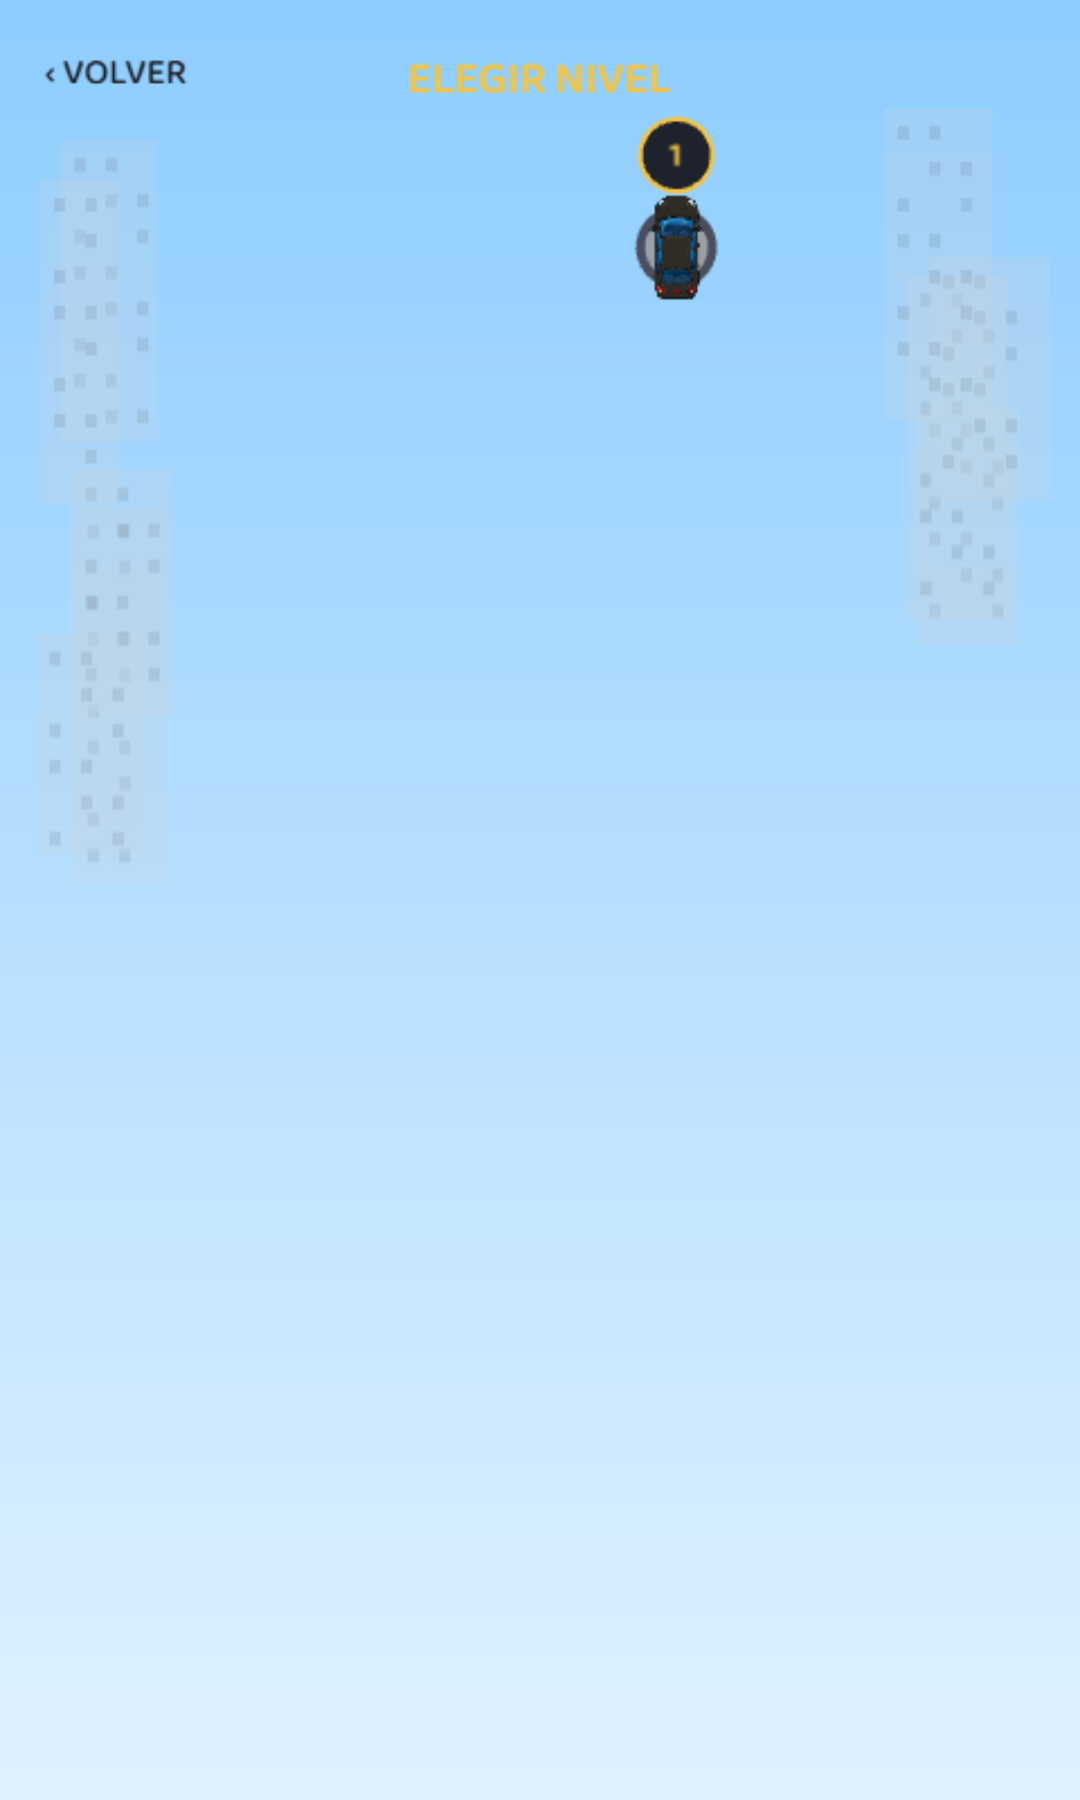
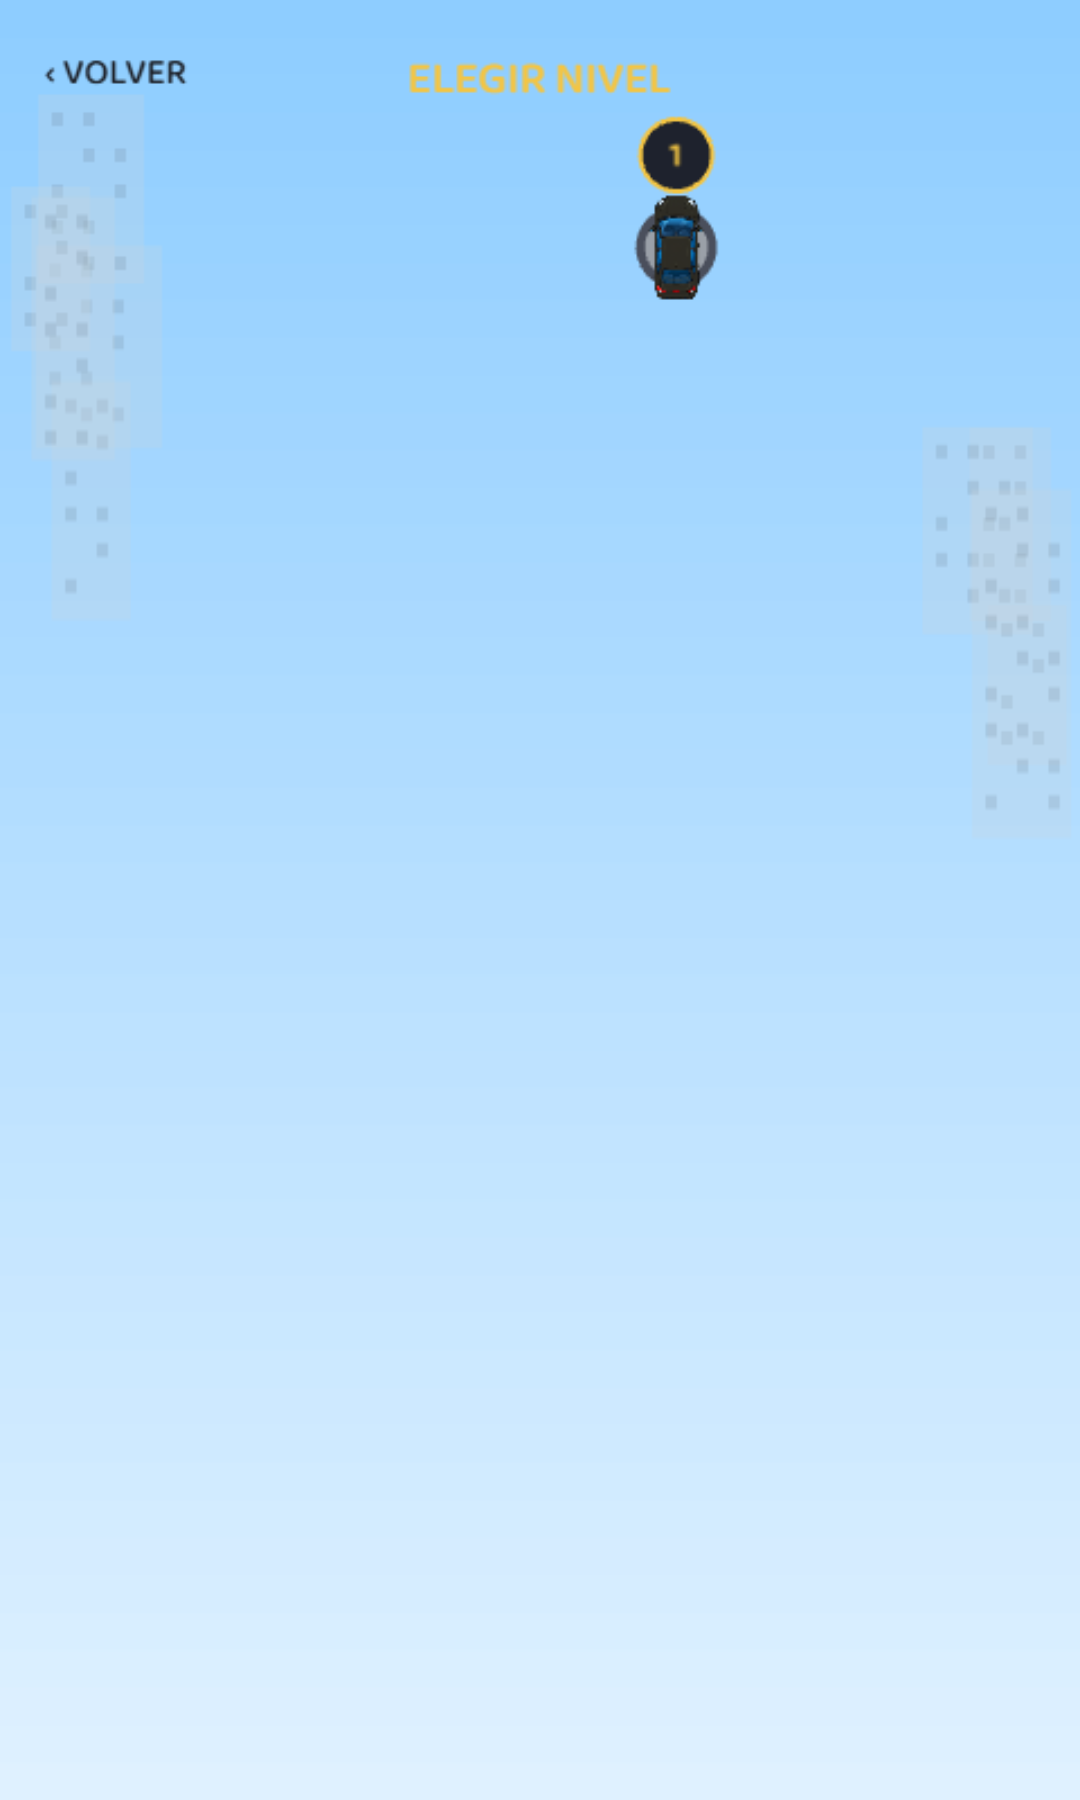
Hide dev level-shortcut behind a secret gesture; scaffold themed parking backgrounds
- Replace the permanently-visible "Modo desarrollador: niveles" menu link
  with a 7-tap-the-title gesture (same convention as Android's build-number
  unlock) — reachable in every build including production, but no longer
  discoverable by a random player or store reviewer.
- Add landmarkForLevel() (palette.ts), reusing LevelSelectScene's existing
  4-level/10-landmark cycling, so ParkingScene can theme each level's
  background to the same "zone" it visually belongs to on the road.
- Wire ParkingScene to draw a full-bleed parking-bg-${key} image behind the
  board with a constant dark scrim (day and night, since every HUD color
  was chosen assuming the old flat background) when that texture exists —
  falls back to the unchanged flat asphalt background otherwise, since the
  actual location art hasn't been generated yet (prompts for that are in
  docs/parking-background-prompts.md, same Recraft workflow as the vehicles
  and level-select landmarks).

diff --git a/src/scenes/MenuScene.ts b/src/scenes/MenuScene.ts
@@ -20,13 +20,12 @@ export class MenuScene extends Phaser.Scene {
     // theme would wash out — swap to a dark ink for everything but the
     // gold title, which reads fine against either.
     const inkColor = isNightTheme ? Palette.textLight : "#1c1f26";
-    const mutedColor = isNightTheme ? "#8a909c" : "#5a6068";
 
     drawVerticalGradient(this, GameConfig.width, GameConfig.height, startTheme.top, startTheme.bottom);
 
     this.buildBackdrop();
 
-    this.add
+    const title = this.add
       .text(GameConfig.width / 2, 190, "SALIDA\nLIBRE", {
         fontFamily: Palette.displayFont,
         fontSize: "56px",
@@ -35,7 +34,9 @@ export class MenuScene extends Phaser.Scene {
         lineSpacing: 6,
       })
       .setOrigin(0.5)
-      .setDepth(5);
+      .setDepth(5)
+      .setInteractive();
+    this.wireDevUnlock(title);
 
     this.add
       .text(GameConfig.width / 2, 310, "Toca un auto para sacarlo.\nVacía el parqueadero antes de quedarte sin vidas.", {
@@ -96,18 +97,31 @@ export class MenuScene extends Phaser.Scene {
       .setDepth(5)
       .setInteractive({ useHandCursor: true });
     settingsButton.on("pointerup", () => goTo(this, "SettingsScene"));
+  }
 
-    const previewButton = this.add
-      .text(GameConfig.width / 2, 582, "Modo desarrollador: niveles", {
-        fontFamily: Palette.bodyFont,
-        fontSize: "14px",
-        color: mutedColor,
-      })
-      .setOrigin(0.5)
-      .setDepth(5)
-      .setInteractive({ useHandCursor: true });
-    // Dev-tool navigation intentionally skips the fade — fast browsing matters more there.
-    previewButton.on("pointerup", () => this.scene.start("LevelPreviewScene"));
+  // Was a permanently-visible "Modo desarrollador" link — anyone in the
+  // store listing could find it. Now it's a silent tap-the-title gesture
+  // (7 taps within 2.5s, same convention as Android's own build-number
+  // unlock), so only someone who already knows it's there can reach it,
+  // in every build including production.
+  private wireDevUnlock(title: Phaser.GameObjects.Text): void {
+    const TAPS_REQUIRED = 7;
+    const WINDOW_MS = 2500;
+    let taps = 0;
+    let firstTapAt = 0;
+
+    title.on("pointerup", () => {
+      const now = this.time.now;
+      if (taps === 0 || now - firstTapAt > WINDOW_MS) {
+        taps = 0;
+        firstTapAt = now;
+      }
+      taps++;
+      if (taps >= TAPS_REQUIRED) {
+        taps = 0;
+        this.scene.start("LevelPreviewScene");
+      }
+    });
   }
 
   // A handful of translucent cars drifting across, well behind the title —

diff --git a/src/scenes/ParkingScene.ts b/src/scenes/ParkingScene.ts
@@ -1,5 +1,5 @@
 import Phaser from "phaser";
-import { GameConfig, Palette } from "../config/palette.ts";
+import { GameConfig, Palette, landmarkForLevel } from "../config/palette.ts";
 import { RunState } from "../state/RunState.ts";
 import { LevelState } from "../state/LevelState.ts";
 import type { CarInstance } from "../state/LevelState.ts";
@@ -113,6 +113,7 @@ export class ParkingScene extends Phaser.Scene {
 
     this.cameras.main.setBackgroundColor(Palette.bgAsphalt);
     this.cameras.main.zoom = 1;
+    this.drawThemedBackground();
     fadeIn(this);
     playMusic(this, "parking");
     this.busy = false;
@@ -200,6 +201,28 @@ export class ParkingScene extends Phaser.Scene {
   private layoutGrid(): void {
     this.cellSize = this.computeCellSize();
     this.offsetX = (GameConfig.width - LevelState.cols * this.cellSize) / 2;
+  }
+
+  // Themes the empty asphalt around the board to whatever "zone" this level
+  // belongs to on the level-select road (same cycling — see
+  // landmarkForLevel). Purely cosmetic behind the fully-opaque board, so a
+  // missing background image (art not generated yet) just leaves the plain
+  // Palette.bgAsphalt camera background from create() untouched — no crash,
+  // no layout shift, nothing else to gate on.
+  private drawThemedBackground(): void {
+    const { key } = landmarkForLevel(LevelState.level);
+    const textureKey = `parking-bg-${key}`;
+    if (!this.textures.exists(textureKey)) return;
+
+    this.add.image(GameConfig.width / 2, GameConfig.height / 2, textureKey).setDepth(-2).setDisplaySize(GameConfig.width, GameConfig.height);
+
+    // A constant dark scrim, not just a night-only one — every HUD/text
+    // color in this scene was chosen assuming the old flat near-black
+    // background, so the location art can only ever show through faintly
+    // (enough to read as "you're at the hospital now", never enough to
+    // fight the HUD for contrast).
+    const scrimAlpha = this.isNight ? 0.78 : 0.62;
+    this.add.rectangle(0, 0, GameConfig.width, GameConfig.height, 0x0b0d12, scrimAlpha).setOrigin(0).setDepth(-1);
   }
 
   private drawGrid(): void {

diff --git a/src/config/palette.ts b/src/config/palette.ts
@@ -51,6 +51,16 @@ export const LANDMARKS = [
 ] as const;
 export const LANDMARK_KEYS = LANDMARKS.map((l) => l.key);
 
+// Same cycling LevelSelectScene uses to place landmark markers (every 4
+// levels, wrapping every 10 landmarks) — reused here so ParkingScene can
+// theme a level's background to match the "zone" it visually belongs to
+// on the road. Levels 1-4 are the generic parking-lot zone, 5-8 are mall,
+// 9-12 casino, etc.
+export function landmarkForLevel(level: number): (typeof LANDMARKS)[number] {
+  const zoneIndex = Math.floor((level - 1) / 4) % LANDMARKS.length;
+  return LANDMARKS[zoneIndex];
+}
+
 // Boot/menu backdrop gradients — bright and light by day (better contrast
 // against the colorful car silhouettes), warm and dark by night, matching
 // the day/night split already used in-game (ParkingScene/ChaseScene check

diff --git a/src/scenes/BootScene.ts b/src/scenes/BootScene.ts
@@ -27,6 +27,11 @@ export class BootScene extends Phaser.Scene {
 
     LANDMARK_KEYS.forEach((key) => {
       this.load.image(`landmark-${key}`, `/assets/landmarks/${key}.png`);
+      // Full-scene parking-lot backgrounds, one per landmark zone — not
+      // generated yet (see docs/parking-background-prompts.md). Missing
+      // files just 404 quietly; ParkingScene checks textures.exists() and
+      // falls back to the plain asphalt background until each one lands.
+      this.load.image(`parking-bg-${key}`, `/assets/parking-backgrounds/${key}.png`);
     });
 
     // Music — CC-BY 3.0 tracks from OpenGameArt.org (see CREDITS.md).

diff --git a/docs/parking-background-prompts.md b/docs/parking-background-prompts.md
@@ -1,0 +1,168 @@
+# Prompts para los fondos temáticos del modo parqueadero
+
+Mismo flujo que usamos para los autos y los landmarks del selector de
+niveles: Recraft.ai → **Create** → dropdown **Ilustración/Arte vectorial**
+→ elegí tu estilo personalizado **"salida"** (el mismo que ya usaste) →
+pegá el prompt → generá → descargá.
+
+Son **10 imágenes**, una por cada "zona" del selector de niveles (no hace
+falta versión de día y de noche por separado — el juego oscurece la
+imagen automáticamente de noche con el mismo sistema que ya usa el resto
+del juego).
+
+**Guardalas en** `public/assets/parking-backgrounds/` con estos nombres
+exactos (el código ya las está esperando, apenas aparezca el archivo se
+usa solo, sin tocar código):
+
+```
+public/assets/parking-backgrounds/parking-lot.png
+public/assets/parking-backgrounds/mall.png
+public/assets/parking-backgrounds/casino.png
+public/assets/parking-backgrounds/gas-station.png
+public/assets/parking-backgrounds/supermarket.png
+public/assets/parking-backgrounds/hospital.png
+public/assets/parking-backgrounds/police-station.png
+public/assets/parking-backgrounds/park.png
+public/assets/parking-backgrounds/fast-food.png
+public/assets/parking-backgrounds/car-wash.png
+```
+
+Si Recraft te deja elegir relación de aspecto, usá la más alta/vertical
+disponible (tipo 2:3 o 9:16) — se ve mejor en el teléfono. Si solo tenés
+cuadrada, no pasa nada, el juego la recorta automáticamente para cubrir
+la pantalla.
+
+**Nota importante para cada prompt**: la mitad inferior-central de la
+imagen queda tapada por el tablero del rompecabezas — no hace falta que
+esté vacía ni transparente (a diferencia del cockpit), pero conviene que
+sea la parte menos "ocupada" de la composición, para que si un nivel
+tiene un tablero chico, lo que se alcance a ver ahí no compita
+visualmente con los autos. Toda la identidad del lugar (fachada, letrero,
+detalles) va mejor concentrada arriba y a los costados.
+
+---
+
+## 1. parking-lot (zona de inicio, niveles 1-4)
+
+```
+Top-down bird's-eye view of a plain public parking lot entrance, same
+flat-color vector illustration style as the previous set (bold black
+outlines, saturated colors, simple cel shading, no gradients). A small
+ticket booth and a striped entrance barrier near the top edge, faded
+painted lane lines along the side edges. The lower-center two-thirds of
+the frame is open, plain gray asphalt pavement with minimal detail.
+Portrait orientation, no text, no logos, no people, no cars.
+```
+
+## 2. mall (niveles 5-8)
+
+```
+Top-down bird's-eye view of a shopping mall entrance, same flat-color
+vector illustration style as the previous set (bold black outlines,
+saturated colors, simple cel shading). Glass storefront facade with a
+covered entrance canopy near the top edge, a couple of potted trees and
+a generic blank marquee sign (no readable text) along the side edges.
+The lower-center two-thirds of the frame is open, plain light-gray
+asphalt pavement with minimal detail. Portrait orientation, no text, no
+logos, no people, no cars.
+```
+
+## 3. casino (niveles 9-12)
+
+```
+Top-down bird's-eye view of a casino entrance, same flat-color vector
+illustration style as the previous set (bold black outlines, saturated
+colors, simple cel shading). Gold-and-purple domed facade with neon trim
+and a red carpet leading from the entrance near the top edge, warm
+string lights along the side edges. The lower-center two-thirds of the
+frame is open, plain dark asphalt pavement with minimal detail. Portrait
+orientation, no text, no logos, no people, no cars.
+```
+
+## 4. gas-station (niveles 13-16)
+
+```
+Top-down bird's-eye view of a gas station forecourt, same flat-color
+vector illustration style as the previous set (bold black outlines,
+saturated colors, simple cel shading). A red-and-yellow canopy roof
+along the top edge with a blank generic price sign (no readable text),
+fuel pump silhouettes tucked along the side edges. The lower-center
+two-thirds of the frame is open, plain gray asphalt pavement with subtle
+oil-stain details. Portrait orientation, no text, no logos, no people,
+no cars.
+```
+
+## 5. supermarket (niveles 17-20)
+
+```
+Top-down bird's-eye view of a supermarket entrance, same flat-color
+vector illustration style as the previous set (bold black outlines,
+saturated colors, simple cel shading). Green-and-blue striped awning
+over glass sliding doors near the top edge, a cart corral and a couple
+of shopping carts along one side edge. The lower-center two-thirds of
+the frame is open, plain light-gray asphalt pavement with minimal
+detail. Portrait orientation, no text, no logos, no people, no cars.
+```
+
+## 6. hospital (niveles 21-24)
+
+```
+Top-down bird's-eye view of a hospital entrance, same flat-color vector
+illustration style as the previous set (bold black outlines, saturated
+colors, simple cel shading). White-and-blue building facade with a large
+red cross emblem and a covered ambulance bay near the top edge, a
+helipad marking tucked in one corner. The lower-center two-thirds of the
+frame is open, plain light-gray asphalt pavement with minimal detail.
+Portrait orientation, no text, no logos, no people, no cars.
+```
+
+## 7. police-station (niveles 25-28)
+
+```
+Top-down bird's-eye view of a police station entrance, same flat-color
+vector illustration style as the previous set (bold black outlines,
+saturated colors, simple cel shading). Dark blue-and-white building
+facade with a flagpole and a generic blank badge emblem (no readable
+text) near the top edge, low concrete barriers along one side edge. The
+lower-center two-thirds of the frame is open, plain gray asphalt
+pavement with minimal detail. Portrait orientation, no text, no logos,
+no people, no cars.
+```
+
+## 8. park (niveles 29-32)
+
+```
+Top-down bird's-eye view of the edge of a public park bordering a small
+parking area, same flat-color vector illustration style as the previous
+set (bold black outlines, saturated colors, simple cel shading). Leafy
+green trees, grass patches, and a park bench along the top and side
+edges. The lower-center two-thirds of the frame is open, plain
+light-gray asphalt pavement with minimal detail. Portrait orientation,
+no text, no logos, no people, no cars.
+```
+
+## 9. fast-food (niveles 33-36)
+
+```
+Top-down bird's-eye view of a fast-food restaurant with a drive-thru
+lane, same flat-color vector illustration style as the previous set
+(bold black outlines, saturated colors, simple cel shading). Bright
+red-and-yellow building facade near the top edge, a curved drive-thru
+lane with a blank generic menu board (no readable text) along one side
+edge. The lower-center two-thirds of the frame is open, plain gray
+asphalt pavement with minimal detail. Portrait orientation, no text, no
+logos, no people, no cars.
+```
+
+## 10. car-wash (niveles 37-40, después vuelve a ciclar)
+
+```
+Top-down bird's-eye view of a car wash entrance, same flat-color vector
+illustration style as the previous set (bold black outlines, saturated
+colors, simple cel shading). Blue-and-white building with soap-bubble
+motifs and spinning brush rollers visible at the entrance tunnel near
+the top edge, a wet glossy pavement sheen along one side edge. The
+lower-center two-thirds of the frame is open, plain gray asphalt
+pavement with minimal detail. Portrait orientation, no text, no logos,
+no people, no cars.
+```
